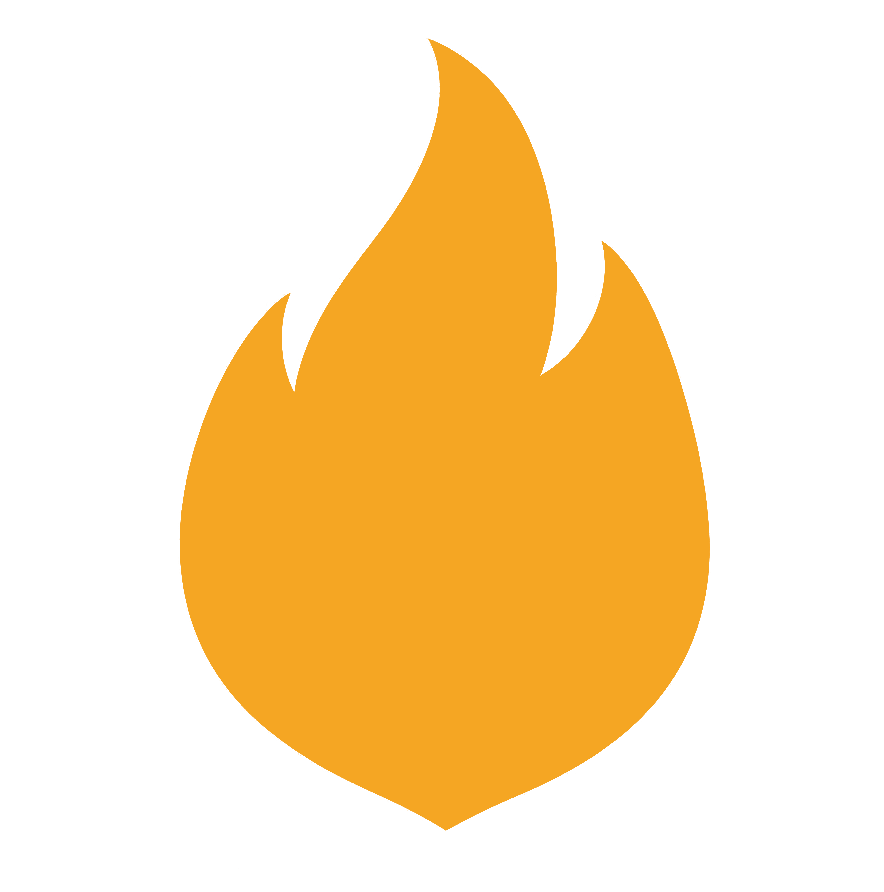
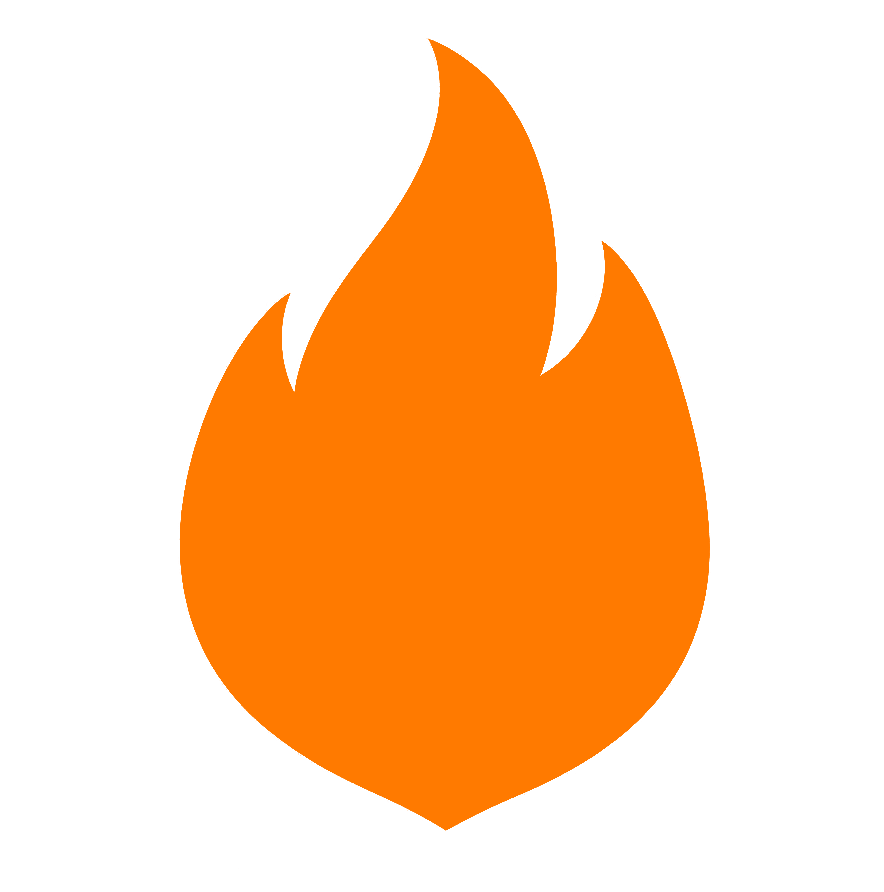
Version 3.0

diff --git a/src/App.jsx b/src/App.jsx
@@ -10,7 +10,7 @@ const ARTICLES = ["der", "die", "das"];
 const DIFFICULTY_LABELS = { beginner: "Easy", intermediate: "Medium", advanced: "Hard", artikelgott: "Artikelgott" };
 const GREEN = "#2E8B57";
 const RED = "#D94A4A";
-const GOLD = "#F5A623";
+const ORANGE = "#FF7A00";
 
 // ── Helpers ────────────────────────────────────────────────
 function shuffle(arr) { return [...arr].sort(() => Math.random() - 0.5); }
@@ -509,6 +509,100 @@ export default function App() {
   return (
     <div style={{ width: "100%", minHeight: "100vh", background: "#FFFAF4", color: "#2D2D2D", fontFamily: "'Nunito', sans-serif", colorScheme: "light" }}>
 
+      {/* Help & Instructions*/}
+      {showHelp && (
+        <div
+          onClick={() => setShowHelp(false)}
+          style={{
+            position: "fixed",
+            inset: 0,
+            background: "rgba(45,45,45,0.45)",
+            display: "flex",
+            alignItems: "center",
+            justifyContent: "center",
+            zIndex: 100,
+            padding: 16
+          }}
+        >
+          <motion.div
+            onClick={e => e.stopPropagation()}
+            initial={{ scale: 0.8, opacity: 0 }}
+            animate={{ scale: 1, opacity: 1 }}
+            transition={{ duration: 0.25 }}
+            style={{
+              background: "#FFFFFF",
+              borderRadius: 24,
+              padding: "32px 24px",
+              maxWidth: 420,
+              width: "100%",
+              boxShadow: "0 8px 40px rgba(0,0,0,0.12)"
+            }}
+          >
+            <h2 style={{ margin: "0 0 20px", color: "#2D2D2D" }}>
+              How to Play
+            </h2>
+
+            <div style={{ marginBottom: 24 }}>
+              <h3 style={{ margin: "0 0 8px", color: ORANGE }}>
+                📅 Daily
+              </h3>
+
+              <p style={{ margin: 0, color: "#767676", lineHeight: 1.6 }}>
+                • 10 words per level<br />
+                • Score 8/10 or higher to unlock the next level<br />
+                • Your progress is saved automatically<br />
+                • Each level can only be completed once per day
+              </p>
+            </div>
+
+            <div style={{ marginBottom: 24 }}>
+              <h3 style={{ margin: "0 0 8px", color: ORANGE }}>
+                ⚡ Survival
+              </h3>
+
+              <p style={{ margin: 0, color: "#767676", lineHeight: 1.6 }}>
+                • Unlimited words<br />
+                • Start with 3 hearts ❤️<br />
+                • Lose a heart for each mistake<br />
+                • Earn 1 heart every 10 correct answers<br />
+                • Game ends when you run out of hearts
+              </p>
+            </div>
+
+            <div style={{ marginBottom: 24 }}>
+              <h3 style={{ margin: "0 0 8px", color: ORANGE }}>
+                🏆 Leaderboard
+              </h3>
+
+              <p style={{ margin: 0, color: "#767676", lineHeight: 1.6 }}>
+                • Survival ranks players by their best streak<br />
+                • Complete harder levels to climb higher<br />
+                • Your highest score is saved automatically
+              </p>
+            </div>
+
+            <button
+              onClick={() => setShowHelp(false)}
+              style={{
+                width: "100%",
+                padding: "14px 0",
+                borderRadius: 48,
+                border: `2px solid ${GREEN}`,
+                background: GREEN,
+                color: "#FFFFFF",
+                fontSize: 15,
+                fontWeight: 700,
+                cursor: "pointer"
+              }}
+            >
+              Got it
+            </button>
+          </motion.div>
+        </div>
+      )}
+      
+      
+      
       {/* ── MENU ── */}
       {screen === "menu" && (
         <div style={{ display: "flex", flexDirection: "column", alignItems: "center", justifyContent: "center", minHeight: "100vh", padding: "24px 32px", boxSizing: "border-box" }}>
@@ -550,7 +644,7 @@ export default function App() {
                   {mode === m && (
                     <motion.div
                       layoutId="homeModeTab"
-                      style={{ position: "absolute", inset: 0, background: GOLD, borderRadius: 48, zIndex: -1 }}
+                      style={{ position: "absolute", inset: 0, background: ORANGE, borderRadius: 48, zIndex: -1 }}
                       transition={{ type: "spring", stiffness: 400, damping: 30 }}
                     />
                   )}
@@ -612,7 +706,7 @@ export default function App() {
                       style={{
                         ...menuBtnStyle,
                         opacity: dailyProgress[d]?.status === "completed" ? 0.6 : 1,
-                        ...(d === "artikelgott" && { background: "#fff6eb", border: `2px solid ${GOLD}` })
+                        ...(d === "artikelgott" && { background: "#fff6eb", border: `2px solid ${ORANGE}` })
                       }}
                     >
                       <span>{d === "artikelgott" ? "👑 Artikelgott" : DIFFICULTY_LABELS[d]}</span>
@@ -632,7 +726,7 @@ export default function App() {
                       whileHover={{ scale: 1.02, background: "#FDEFD8" }}
                       style={{
                         ...menuBtnStyle,
-                        ...(d === "artikelgott" && { background: "#fff6eb", border: `2px solid ${GOLD}` })
+                        ...(d === "artikelgott" && { background: "#fff6eb", border: `2px solid ${ORANGE}` })
                       }}
                     >
                       <span>{d === "artikelgott" ? "👑 Artikelgott" : DIFFICULTY_LABELS[d]}</span>
@@ -673,7 +767,7 @@ export default function App() {
                   {lbTab === d && (
                     <motion.div
                       layoutId="leaderboardTab"
-                      style={{ position: "absolute", inset: 0, background: GOLD, borderRadius: 48, zIndex: -1 }}
+                      style={{ position: "absolute", inset: 0, background: ORANGE, borderRadius: 48, zIndex: -1 }}
                       transition={{ type: "spring", stiffness: 400, damping: 30 }}
                     />
                   )}
@@ -689,7 +783,7 @@ export default function App() {
               <motion.div
                 animate={{ rotate: 360 }}
                 transition={{ duration: 1, repeat: Infinity, ease: "linear" }}
-                style={{ width: 32, height: 32, border: `3px solid #E6E1DA`, borderTop: `3px solid ${GOLD}`, borderRadius: "50%" }}
+                style={{ width: 32, height: 32, border: `3px solid #E6E1DA`, borderTop: `3px solid ${ORANGE}`, borderRadius: "50%" }}
               />
             </div>
           ) : currentLbData ? (
@@ -703,9 +797,9 @@ export default function App() {
                     return (
                       <div
                         key={player.id}
-                        style={{ display: "flex", alignItems: "center", justifyContent: "space-between", padding: "12px 16px", borderRadius: 16, marginBottom: 4, background: isMe ? "#FFF4E8" : "#FFFFFF", border: `2px solid ${isMe ? GOLD : "#F0EBE3"}` }}>
+                        style={{ display: "flex", alignItems: "center", justifyContent: "space-between", padding: "12px 16px", borderRadius: 16, marginBottom: 4, background: isMe ? "#FFF4E8" : "#FFFFFF", border: `2px solid ${isMe ? ORANGE : "#F0EBE3"}` }}>
                         <div style={{ display: "flex", alignItems: "center", gap: 12 }}>
-                          <span style={{ fontSize: 15, fontWeight: 800, color: i < 3 ? GOLD : "#ADADAD", width: 24 }}>
+                          <span style={{ fontSize: 15, fontWeight: 800, color: i < 3 ? ORANGE : "#ADADAD", width: 24 }}>
                             {i === 0 ? "🥇" : i === 1 ? "🥈" : i === 2 ? "🥉" : `${i + 1}.`}
                           </span>
                           <span style={{ fontSize: 15, fontWeight: isMe ? 800 : 600, color: "#2D2D2D" }}>
@@ -714,7 +808,7 @@ export default function App() {
                         </div>
                         <div style={{ display: "flex", alignItems: "center", gap: 4 }}>
                           <img src="/images/streak.png" style={{ width: 20, height: 20 }} />
-                          <span style={{ fontSize: 15, fontWeight: 800, color: isMe ? GOLD : "#2D2D2D" }}>{player.best_score}</span>
+                          <span style={{ fontSize: 15, fontWeight: 800, color: isMe ? ORANGE : "#2D2D2D" }}>{player.best_score}</span>
                         </div>
                       </div>
                     );
@@ -728,16 +822,16 @@ export default function App() {
                   {currentLbData.userRow ? (
                     <>
                       <div style={{ textAlign: "center", color: "#ADADAD", fontSize: 18, padding: "4px 0 8px" }}>•••</div>
-                      <div style={{ display: "flex", alignItems: "center", justifyContent: "space-between", padding: "12px 16px", borderRadius: 16, background: "#FFF4E8", border: `2px solid ${GOLD}` }}>
+                      <div style={{ display: "flex", alignItems: "center", justifyContent: "space-between", padding: "12px 16px", borderRadius: 16, background: "#FFF4E8", border: `2px solid ${ORANGE}` }}>
                         <div style={{ display: "flex", alignItems: "center", gap: 12 }}>
-                          <span style={{ fontSize: 15, fontWeight: 800, color: GOLD, width: 24 }}>{currentLbData.userRank}.</span>
+                          <span style={{ fontSize: 15, fontWeight: 800, color: ORANGE, width: 24 }}>{currentLbData.userRank}.</span>
                           <span style={{ fontSize: 15, fontWeight: 800, color: "#2D2D2D" }}>
                             {currentLbData.userRow.username || "Anonymous"} (you)
                           </span>
                         </div>
                         <div style={{ display: "flex", alignItems: "center", gap: 4 }}>
                           <img src="/images/streak.png" style={{ width: 20, height: 20 }} />
-                          <span style={{ fontSize: 15, fontWeight: 800, color: GOLD }}>{currentLbData.userRow.best_score}</span>
+                          <span style={{ fontSize: 15, fontWeight: 800, color: ORANGE }}>{currentLbData.userRow.best_score}</span>
                         </div>
                       </div>
                     </>
@@ -869,7 +963,7 @@ export default function App() {
                     </div>
                     <div style={{ display: "flex", alignItems: "center", gap: 4 }}>
                       <img src="/images/streak.png" style={{ width: 32, height: 32 }} />
-                      <span style={{ fontSize: 28, fontWeight: 700, color: GOLD }}>{streak}</span>
+                      <span style={{ fontSize: 28, fontWeight: 700, color: ORANGE }}>{streak}</span>
                     </div>
                   </div>
                   <div style={{ width: "100%", height: 6, background: "#E6E1DA", borderRadius: 999 }}>
@@ -1021,7 +1115,7 @@ export default function App() {
 
                   {mode === "daily" ? (
                     <>
-                      <div style={{ fontSize: 48, fontWeight: 800, color: GOLD, lineHeight: 1, marginBottom: 12 }}>
+                      <div style={{ fontSize: 48, fontWeight: 800, color: ORANGE, lineHeight: 1, marginBottom: 12 }}>
                         {finalScore}/10
                       </div>
                       <h2 style={{ margin: "0 0 8px", fontSize: 18, color: "#2D2D2D" }}>
@@ -1036,18 +1130,18 @@ export default function App() {
                       </p>
                       <div
                         onClick={() => setScreen("review")}
-                        style={{ background: "#FFF4E8", borderRadius: 16, padding: "14px 16px", marginBottom: 24, cursor: "pointer", border: `1px solid ${GOLD}`, boxShadow: "0 2px 8px rgba(0,0,0,0.06)" }}>
+                        style={{ background: "#FFF4E8", borderRadius: 16, padding: "14px 16px", marginBottom: 24, cursor: "pointer", border: `1px solid ${ORANGE}`, boxShadow: "0 2px 8px rgba(0,0,0,0.06)" }}>
                         {finalScore === 10 ? (
                           <>
                             <p style={{ fontSize: 15, color: GREEN, fontWeight: 700, margin: 0 }}>✓ No mistakes</p>
-                            <p style={{ fontSize: 14, color: GOLD, marginTop: 8, fontWeight: 700 }}>Review answers →</p>
+                            <p style={{ fontSize: 14, color: ORANGE, marginTop: 8, fontWeight: 700 }}>Review answers →</p>
                           </>
                         ) : (
                           <>
                             <p style={{ fontSize: 12, color: "#767676", marginBottom: 4 }}>Last mistake</p>
                             <div style={{ fontSize: 15, color: RED, fontWeight: 700 }}>✗ {selected} {current.word}</div>
                             <div style={{ fontSize: 15, color: GREEN, fontWeight: 700 }}>✓ {current.article} {current.word}</div>
-                            <p style={{ fontSize: 14, color: GOLD, marginTop: 8, fontWeight: 700 }}>Review answers →</p>
+                            <p style={{ fontSize: 14, color: ORANGE, marginTop: 8, fontWeight: 700 }}>Review answers →</p>
                           </>
                         )}
                       </div>
@@ -1061,7 +1155,7 @@ export default function App() {
                         )}
                         <button
                           onClick={shareScore}
-                          style={{ padding: "14px 0", borderRadius: 48, border: `2px solid ${GOLD}`, background: GOLD, color: "#FFFFFF", fontSize: 15, fontWeight: 700, cursor: "pointer" }}>
+                          style={{ padding: "14px 0", borderRadius: 48, border: `2px solid ${ORANGE}`, background: ORANGE, color: "#FFFFFF", fontSize: 15, fontWeight: 700, cursor: "pointer" }}>
                           Share Score
                         </button>
                         <button
@@ -1074,11 +1168,11 @@ export default function App() {
                   ) : (
                     <>
                       {isNewHigh && (
-                        <div style={{ color: GOLD, fontWeight: 800, fontSize: 16, marginBottom: 12 }}>🏆 NEW HIGH SCORE!</div>
+                        <div style={{ color: ORANGE, fontWeight: 800, fontSize: 16, marginBottom: 12 }}>🏆 NEW HIGH SCORE!</div>
                       )}
                       <div style={{ display: "flex", alignItems: "center", justifyContent: "center", marginBottom: 8 }}>
                         <img src="/images/streak.png" style={{ width: 56, height: 56 }} />
-                        <div style={{ fontSize: 64, fontWeight: 800, color: GOLD, lineHeight: 1 }}>{finalScore}</div>
+                        <div style={{ fontSize: 64, fontWeight: 800, color: ORANGE, lineHeight: 1 }}>{finalScore}</div>
                       </div>
                       <h2 style={{ margin: "0 0 8px", fontSize: 24, color: "#2D2D2D" }}>{modalTitle}</h2>
                       <p style={{ color: "#767676", fontSize: 13, marginBottom: 16 }}>
@@ -1092,11 +1186,11 @@ export default function App() {
                       {!isLevelComplete && (
                         <div
                           onClick={() => setScreen("review")}
-                          style={{ background: "#FFF4E8", borderRadius: 16, padding: "14px 16px", marginBottom: 24, cursor: "pointer", border: `1px solid ${GOLD}`, boxShadow: "0 2px 8px rgba(0,0,0,0.06)", transition: "all 0.15s" }}>
+                          style={{ background: "#FFF4E8", borderRadius: 16, padding: "14px 16px", marginBottom: 24, cursor: "pointer", border: `1px solid ${ORANGE}`, boxShadow: "0 2px 8px rgba(0,0,0,0.06)", transition: "all 0.15s" }}>
                           <p style={{ fontSize: 12, color: "#767676", marginBottom: 4 }}>Last mistake</p>
                           <div style={{ fontSize: 15, color: RED, fontWeight: 700 }}>✗ {selected} {current.word}</div>
                           <div style={{ fontSize: 15, color: GREEN, fontWeight: 700 }}>✓ {current.article} {current.word}</div>
-                          <p style={{ fontSize: 14, color: GOLD, marginTop: 8, fontWeight: 700 }}>Review all answers →</p>
+                          <p style={{ fontSize: 14, color: ORANGE, marginTop: 8, fontWeight: 700 }}>Review all answers →</p>
                         </div>
                       )}
                       <div style={{ display: "flex", flexDirection: "column", gap: 10 }}>
@@ -1107,7 +1201,7 @@ export default function App() {
                         </button>
                         <button
                           onClick={shareScore}
-                          style={{ padding: "14px 0", borderRadius: 48, border: `2px solid ${GOLD}`, background: GOLD, color: "#FFFFFF", fontSize: 15, fontWeight: 700, cursor: "pointer" }}>
+                          style={{ padding: "14px 0", borderRadius: 48, border: `2px solid ${ORANGE}`, background: ORANGE, color: "#FFFFFF", fontSize: 15, fontWeight: 700, cursor: "pointer" }}>
                           Share Score
                         </button>
                         <button